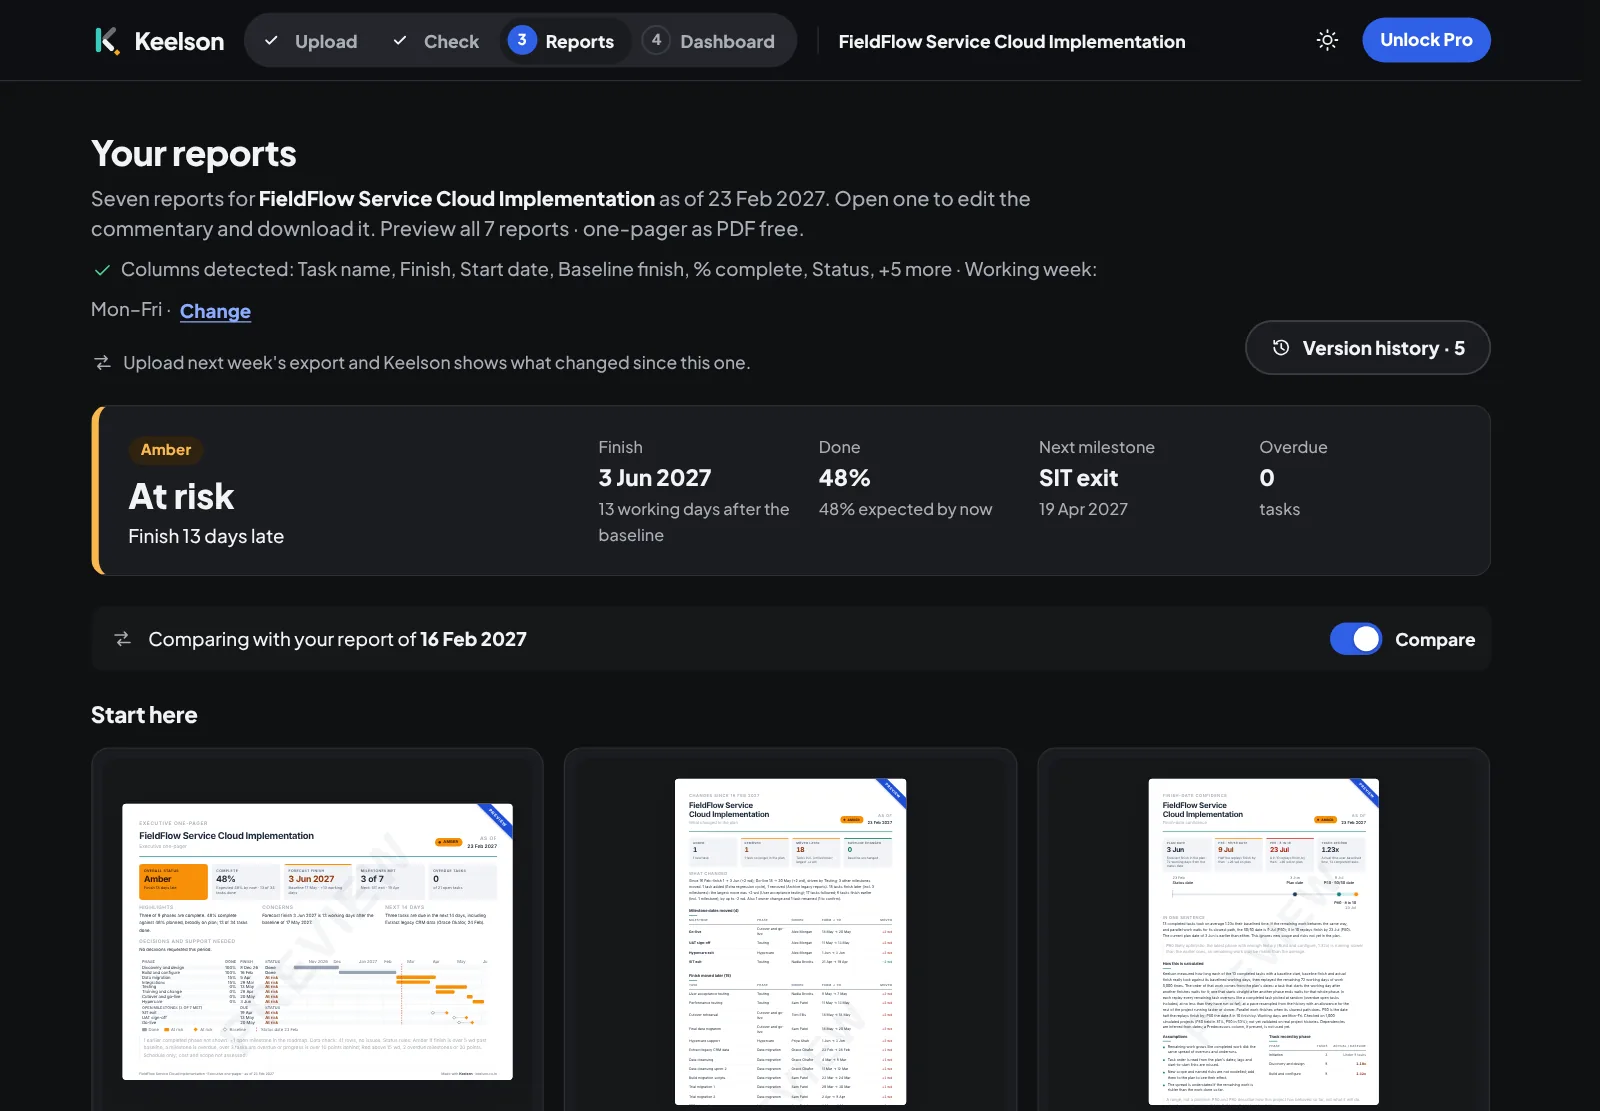
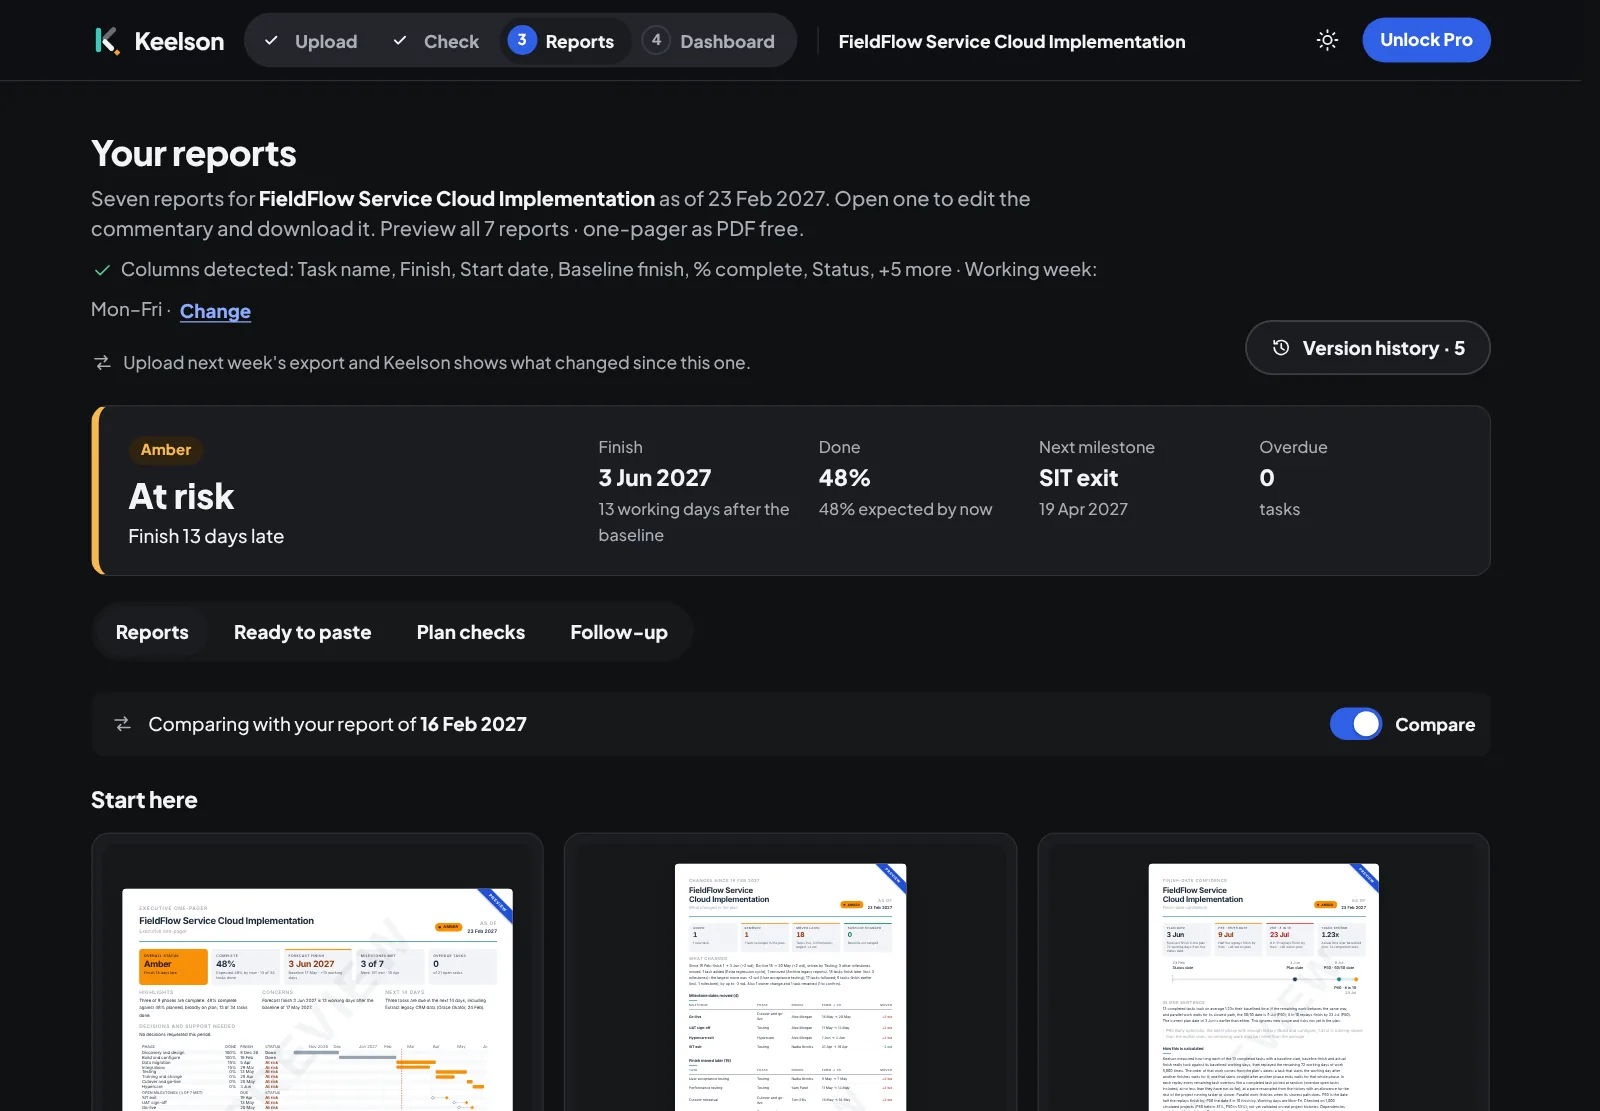
Publish: reports screen in four tabs, simpler upload screen
Generated from keelson main (01e6a25) with tools/publish_site.py.

Claude-Session: https://claude.ai/code/session_01Amkb8PZTuTJQyQ7z1RvTP5

diff --git a/app.html b/app.html
@@ -128,7 +128,9 @@ textarea.in { resize: vertical; font: 500 16px/1.5 var(--font-sans) }
 .busy { display: inline-flex; gap: 10px; align-items: center; color: var(--muted) }
 .spin { display: inline-block; width: 18px; height: 18px; border-radius: 50%; border: 2px solid var(--line-strong); border-top-color: var(--primary); animation: spin .8s linear infinite }
 @keyframes spin { to { transform: rotate(360deg) } }
-.alt { display: grid; grid-template-columns: minmax(0, 1fr) minmax(0, 1.15fr); gap: 16px; align-items: start; margin-top: 32px }
+.alt { display: grid; grid-template-columns: minmax(0, 1fr) minmax(0, 1.15fr); gap: 16px; align-items: start; margin-top: 12px }
+.more-ways > summary { list-style: none } .more-ways > summary::-webkit-details-marker { display: none } .more-ways > summary::before { content: "+"; width: 18px; font-weight: 800 } .more-ways[open] > summary::before { content: "\2212" }
+.more-ways { margin-top: 28px } .more-ways > summary { display: inline-flex; align-items: center; min-height: 44px; cursor: pointer; font-size: 15px; font-weight: 700; color: var(--ink-2) }
 @media (max-width: 860px) { .alt { grid-template-columns: minmax(0, 1fr) } }
 textarea.paste { width: 100%; min-height: 128px; resize: vertical; border-radius: var(--r-sm); border: 1.5px solid var(--line-strong); background: var(--bg-soft); color: var(--ink); padding: 12px 14px; font: 13px/1.5 var(--font-mono); white-space: pre; overflow: auto }
 textarea.paste:focus { outline: none; border-color: var(--focus); box-shadow: 0 0 0 3px color-mix(in srgb, var(--focus) 25%, transparent) }
@@ -211,8 +213,12 @@ textarea.paste:focus { outline: none; border-color: var(--focus); box-shadow: 0 
 .v-facts span, .v-facts small { display: block; font-size: 13px; color: var(--muted) } .v-facts b { display: block; font-size: 18px; overflow-wrap: anywhere }
 @media (max-width: 700px) { .verdict { grid-template-columns: 1fr } }
 /* the reports screen is long: one row of jumps to its sections */
-.jump { display: flex; flex-wrap: wrap; align-items: center; gap: 10px; margin: -8px 0 20px; font-size: 14px; color: var(--muted) } .jump select { width: auto; min-height: 40px }
-#gallery, #pp, #pc, #chase, #upd, #acts { scroll-margin-top: 84px }
+/* the reports screen in four tabs: one group of sections showing at a time (data-tab on #v-reports) */
+.tabs { display: flex; gap: 4px; margin: -4px 0 24px; padding: 4px; overflow-x: auto; border-radius: var(--r-pill); background: var(--bg-soft); width: fit-content; max-width: 100% }
+.tabs button { flex: none; min-height: 40px; padding: 0 16px; border: 0; border-radius: var(--r-pill); background: transparent; color: var(--ink-2); font: inherit; font-size: 15px; font-weight: 700; cursor: pointer }
+.tabs button[aria-current="true"] { background: var(--surface); color: var(--ink); box-shadow: 0 1px 2px rgb(0 0 0 / .12) }
+#v-reports:not([data-tab="reports"]) > :is(.compare, #gallery), #v-reports:not([data-tab="paper"]) #pp, #v-reports:not([data-tab="checks"]) #pc, #v-reports:not([data-tab="follow"]) :is(#chase, #upd, #acts) { display: none }
+#v-reports #pp, #v-reports #pc, #v-reports #chase { margin-top: 0 }
 /* nothing to pay for before a plan is open: the Pro button stays, quietly */
 body:has(#v-upload:not([hidden])) #pro-btn { background: transparent; color: var(--ink); box-shadow: inset 0 0 0 1px var(--line-strong) }
 #pro-btn { transition: none } /* it changes style with the view: never show a half-way, low-contrast state */
@@ -529,6 +535,7 @@ dialog[open] { animation: pop var(--dur-3) var(--ease-out) }
     </label>
     <div class="try"><button class="btn line" type="button" id="try-sample">No file? Try a sample plan</button></div>
     <div class="err" id="up-err" role="alert" hidden></div>
+    <details class="more-ways" id="more-ways"><summary>More sample plans, or paste a table</summary>
     <div class="alt">
       <div class="card">
         <h3 id="h-samples">Sample plans</h3>
@@ -542,6 +549,7 @@ dialog[open] { animation: pop var(--dur-3) var(--ease-out) }
         <div><button class="btn line sm" type="button" id="paste-go">Use this plan</button></div>
       </div>
     </div>
+    </details>
     <p class="trust">Nothing to install. Once this page has loaded, it keeps working without a connection, as long as you don't reload.</p>
   </section>
 
@@ -612,7 +620,7 @@ dialog[open] { animation: pop var(--dur-3) var(--ease-out) }
       <button class="btn line" type="button" id="hist-btn" data-hist><svg class="ic" aria-hidden="true"><use href="#i-history"/></svg><span id="hist-n">Version history</span></button>
     </div>
     <div class="verdict" id="verdict" aria-label="Where the plan stands" hidden></div>
-    <nav class="jump" id="jump" aria-label="On this screen" hidden></nav>
+    <nav class="tabs" id="tabs" aria-label="Sections of this screen" hidden></nav>
     <div class="compare" data-compare hidden></div>
     <div id="gallery"></div>
     <section class="card chase" id="pp" aria-labelledby="h-pp" hidden>
@@ -801,6 +809,6 @@ dialog[open] { animation: pop var(--dur-3) var(--ease-out) }
 <script src="actions.js?v=397879ca"></script>
 <script src="studio.js?v=a272b249"></script>
 <script src="store-config.js?v=bee35025"></script>
-<script src="app.js?v=38fecfa1"></script>
+<script src="app.js?v=81b817a5"></script>
 </body>
 </html>

diff --git a/app.js b/app.js
@@ -693,13 +693,17 @@
     paintDetected();
     fitThumbs();
     paintPP(); paintPC(); paintChase(); paintUpd(); paintActs();
-    // jumps to the sections that are showing
-    const here = JUMP.filter(([id]) => !$(id).hidden); $("jump").hidden = here.length < 3;
-    $("jump").innerHTML = `<label for="jump-to">Jump to</label><select class="in" id="jump-to"><option value="">On this screen…</option>${here.map(([id, t]) => `<option value="${id}">${t}</option>`).join("")}</select>`; // one tab stop, not six
+    paintTabs();
   }
-  const JUMP = [["gallery", "Reports"], ["pp", "Ready to paste"], ["pc", "Plan checks"], ["chase", "Chase list"], ["upd", "Collect updates"], ["acts", "Actions log"]];
-  $("jump").addEventListener("change", e => { const id = e.target.value; if (!id) return; e.target.value = ""; const el = $(id), h = el.querySelector("h3");
-    el.scrollIntoView({ behavior: matchMedia("(prefers-reduced-motion: reduce)").matches ? "auto" : "smooth", block: "start" }); if (h) { h.tabIndex = -1; h.focus({ preventScroll: true }); } });
+  // four tabs on the reports screen; #reports/paper, #reports/checks and #reports/follow open one directly
+  const TABS = [["reports", "Reports", ["gallery"]], ["paper", "Ready to paste", ["pp"]], ["checks", "Plan checks", ["pc"]], ["follow", "Follow-up", ["chase", "upd", "acts"]]];
+  function paintTabs() {
+    const here = TABS.filter(([, , ids]) => ids.some(id => !$(id).hidden)); if (!here.some(([id]) => id === S.tab)) S.tab = "reports";
+    $("v-reports").dataset.tab = S.tab; $("tabs").hidden = here.length < 2;
+    $("tabs").innerHTML = here.map(([id, t]) => `<button type="button" data-tab="${id}" aria-current="${id === S.tab}">${t}</button>`).join("");
+  }
+  $("tabs").addEventListener("click", e => { const b = e.target.closest("[data-tab]"); if (!b || b.dataset.tab === S.tab) return;
+    S.tab = b.dataset.tab; history.replaceState(null, "", S.tab === "reports" ? "#reports" : `#reports/${S.tab}`); paintTabs(); $("tabs").querySelector('[aria-current="true"]').focus(); });
   // paperwork (brief.js): stand-up, status message, look-ahead and agenda as text. The stand-up is free; copying the rest is Pro
   const PP = [["today", "Today's stand-up", "Overdue, due and starting, by person", true], ["message", "Status message", "This week's status for the sponsor, the client or the team"],
     ["look", "Look-ahead by person", "Every open task in the coming weeks"], ["agenda", "Meeting agenda", "The next progress meeting, from the plan and your actions log"]];
@@ -1359,6 +1363,7 @@
     if (v !== "upload" && !S.k) { history.replaceState(null, "", "#upload"); v = "upload"; }
     if ((v === "reports" || v === "report" || v === "dash") && (!usable() || !callOk())) { history.replaceState(null, "", "#check"); v = "check"; }
     if (v === "report") { S.report = ALL.some(r => r.id === id) ? id : REPORTS[0]?.id; }
+    if (v === "reports") S.tab = ["paper", "checks", "follow"].includes(id) ? id : "reports";
     if (v === "dash") S.dashScreen = id;
     if (v !== "dash" && dash) { dash.destroy(); dash = null; }
     const changed = S.view !== v || v === "report", first = S.view == null;
